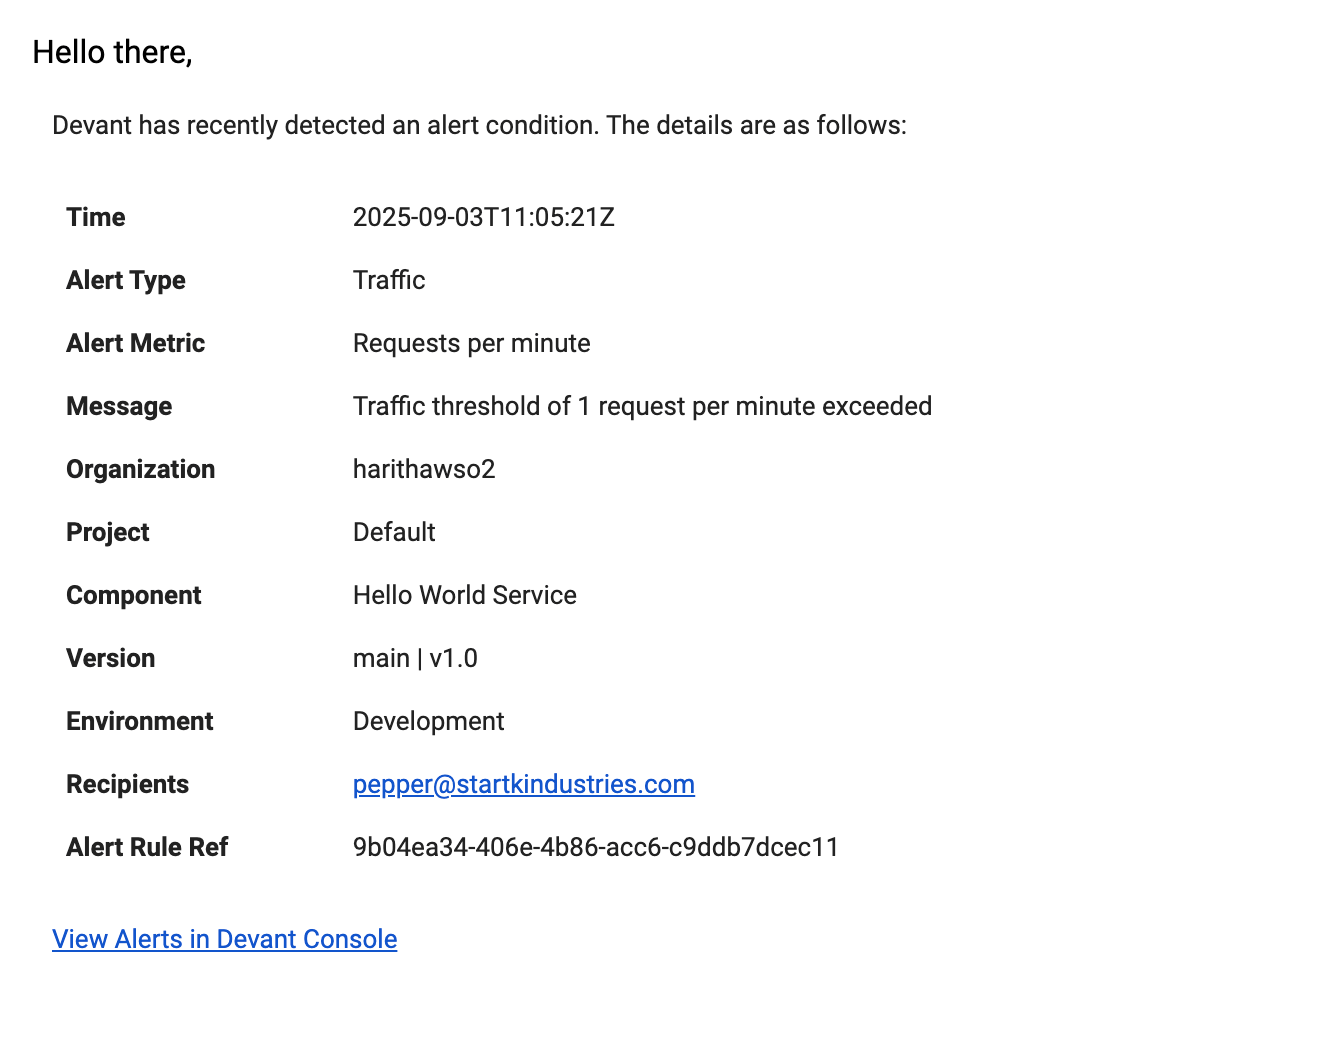
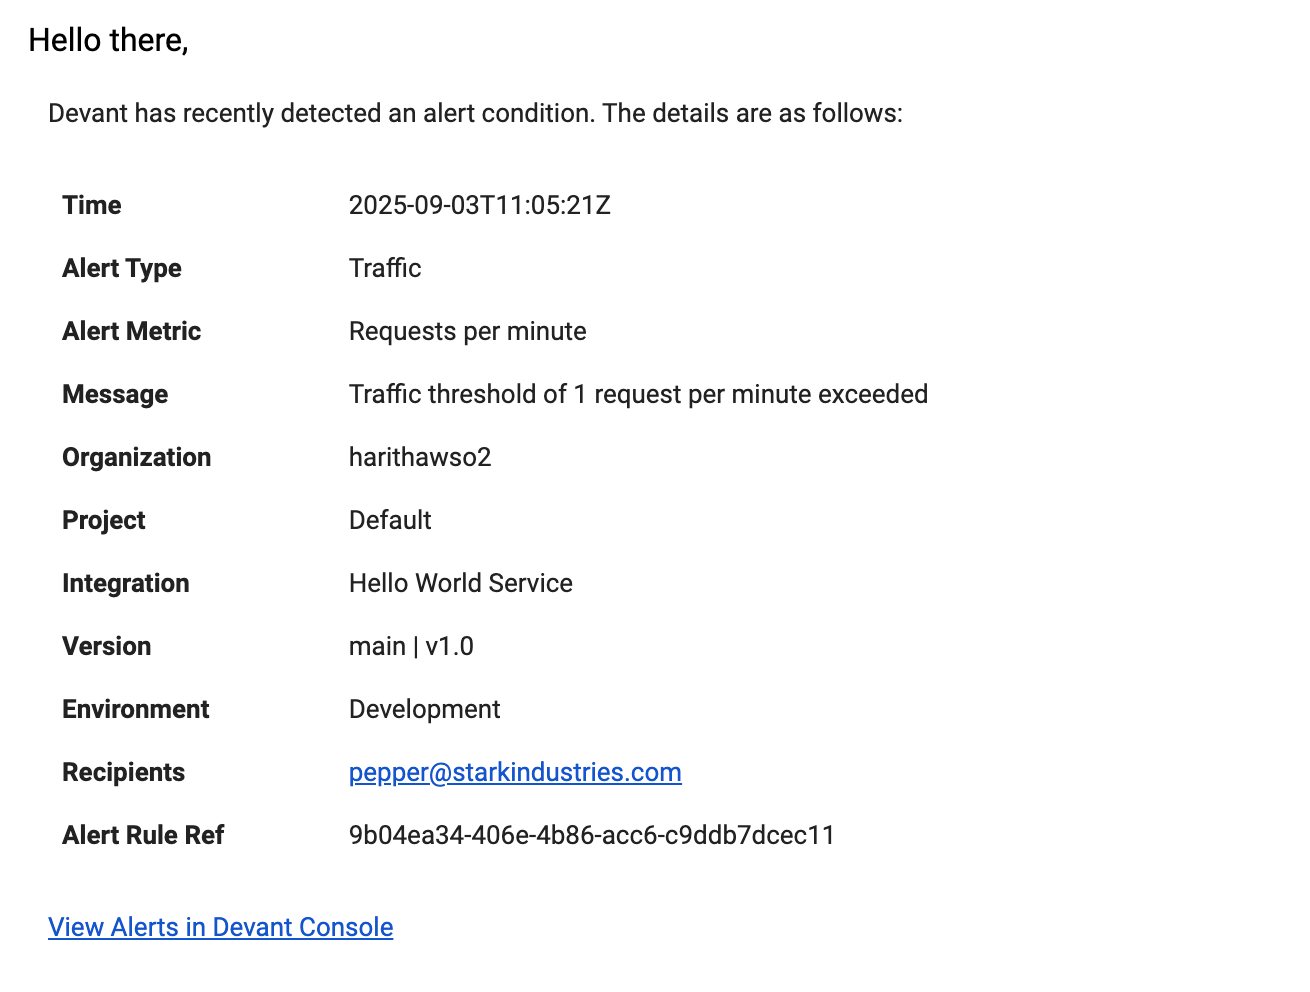
Address review suggestions

diff --git a/en/docs/monitoring-and-insights/alerts-overview.md b/en/docs/monitoring-and-insights/alerts-overview.md
@@ -1,13 +1,13 @@
 # Alerts Overview
 
-This section explains how you can configure alerts for your Devant components. Setting up alerts allows you to proactively monitor your component ecosystem and take corrective measures when necessary.
+This section explains how you can configure alerts for your Devant integrations. Setting up alerts allows you to proactively monitor your integrations and take corrective measures when necessary.
 
 !!! note
-    Setting up alerts is only available at the component level.
+    Setting up alerts is only available at the integration level.
 
 ## Alert types
 
-Devant supports the following types of alerts to help you monitor and manage your components effectively:
+Devant supports the following types of alerts to help you monitor and manage your integrations effectively:
 
 - [Latency alerts](#latency-alerts)
 - [Traffic alerts](#traffic-alerts)
@@ -17,7 +17,7 @@ Devant supports the following types of alerts to help you monitor and manage you
 
 ### Latency alerts
 
-Latency alerts notify you when the response latency of a component exceeds a predefined threshold within a specified time period. This is useful for components that need to meet specific SLAs and proactively identify slow components.
+Latency alerts notify you when the response latency of an integration exceeds a predefined threshold within a specified time period. This is useful for integrations that need to meet specific SLAs and proactively identify slow integrations.
 
 Configurable parameters
 
@@ -29,7 +29,7 @@ Configurable parameters
 
 ### Traffic alerts
 
-Traffic alerts notify you when the request count of a component exceeds a predefined threshold. This is useful for managing components with backend traffic limits or monetized backends that require proactive scaling based on incoming traffic.
+Traffic alerts notify you when the request count of an integration exceeds a predefined threshold. This is useful for managing integrations with backend traffic limits or monetized backends that require proactive scaling based on incoming traffic.
 
 Configurable parameters
 
@@ -40,7 +40,7 @@ Configurable parameters
 
 ### Resource alerts
 
-Resource alerts notify you when your component’s CPU or memory usage exceeds predefined thresholds. This ensures that you can adjust the resource allocations early to avoid performance issues or downtime.
+Resource alerts notify you when your integration’s CPU or memory usage exceeds predefined thresholds. This ensures that you can adjust the resource allocations early to avoid performance issues or downtime.
 
 Configurable parameters
 
@@ -52,11 +52,11 @@ Configurable parameters
 
 !!! tip
     - **CPU**: mCPU (milliCPU) measures CPU usage in fractions of a core, where 1000 mCPU = 1 full core.
-    - **Memory**: MiB (Mebibyte) measures memory in binary units, where 1 MiB = 2^20^ bytes.
+    - **Memory**: MiB (Mebibyte) measures memory in binary units, where 1 MiB = 2<sup>20</sup> bytes.
 
 ### Log alerts
 
-Log alerts trigger notifications when a given phrase appears **a specific number of times** in your component logs within a defined time window. This helps to identify recurring issues or critical errors quickly, enabling faster troubleshooting.
+Log alerts trigger notifications when a given phrase appears **a specific number of times** in your integration logs within a defined time window. This helps to identify recurring issues or critical errors quickly, enabling faster troubleshooting.
 
 Configurable parameters
 
@@ -68,13 +68,13 @@ Configurable parameters
 
 ### Build failure alerts
 
-Build failure alerts inform you when a build failure occurs for your component. This is essential for maintaining smooth development workflows.
+Build failure alerts inform you when a build failure occurs for your integration. This is essential for maintaining smooth development workflows.
 
 ## Configure an alert
 
 Follow these steps to configure an alert:
 
-1. Navigate to the component you wish to configure alerts for.
+1. Navigate to the integration you wish to configure alerts for.
 
     !!! info
         You need to have a scope of **Devant DevOps** or **Devant Platform Engineer** in order to create alerts.
@@ -86,7 +86,7 @@ Follow these steps to configure an alert:
 
 4. Select the **[Alert Type](#alert-types)** you want to create.
 5. Select the **Environment** you want to create the alert for.
-6. Select the **Deployment Track** or **Version** as required for the component.
+6. Select the **Deployment Track** or **Version** as required for the integration.
 7. Configure the remaining fields specific to your selected alert type.
 8. In the **Emails** field, specify the email addresses that should be notified when the alert is triggered.
 
@@ -95,26 +95,23 @@ Follow these steps to configure an alert:
         - You can add a maximum of 5 email addresses per alert.
 
 9. You can configure additional parameters in the **Advanced Configurations** dropdown as needed, which vary based on alert type.
-10. The **Explanation** callout provides a summary of the configured alert based on the alert configurations.
+10. The **Explanation** callout provides a summary of the configured alert.
 11. Click **Create** to save and activate your alert rule.
 
     !!! info
-        - You can configure a maximum of 10 alerts per component.
+        - You can configure a maximum of 10 alerts per integration.
 
-12. Once successfully added, your alert will be listed in the **Configure Alerts** pane alongside any existing alerts for the component.
+12. Once successfully added, your alert will be listed in the **Configure Alerts** pane alongside any existing alerts for the integration.
 13. Each alert can be **edited**, **removed**, and **disabled** or **enabled** via this pane.
 
     !!! note
         When editing an alert, **Alert Type**, **Environment**, and **Deployment Track** cannot be changed.
 
-## Alert history & notifications
+## Alerts history & notifications
 
-### View alert history
+### View alerts history
 
-You can check the past alerts that have triggered for your component in the **Alerts History** pane. You can filter the alert history by **Alert Type**, **Environment**, **Deployment Track** or **Version**, and **Time Range**.
-
-!!! note  
-    When filtering, **API Proxy** components show a **Version** filter, and other components display a **Deployment Track** filter based on their monitoring context.
+You can check the past alerts that have triggered for your integration in the **Alerts History** pane. You can filter the alerts history by **Alert Type**, **Environment**, **Deployment Track** or **Version**, and **Time Range**.
 
 You can click on an alert to expand it to see more details about the alert.
 
